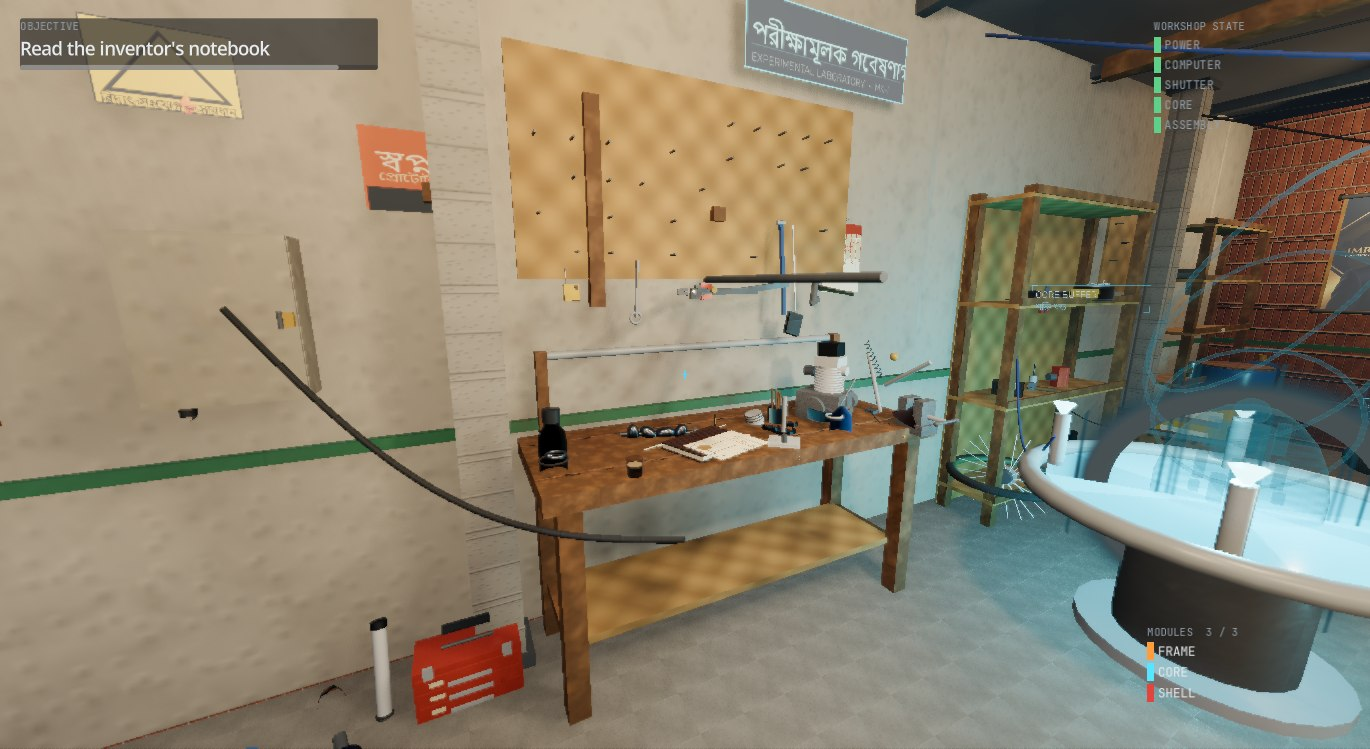
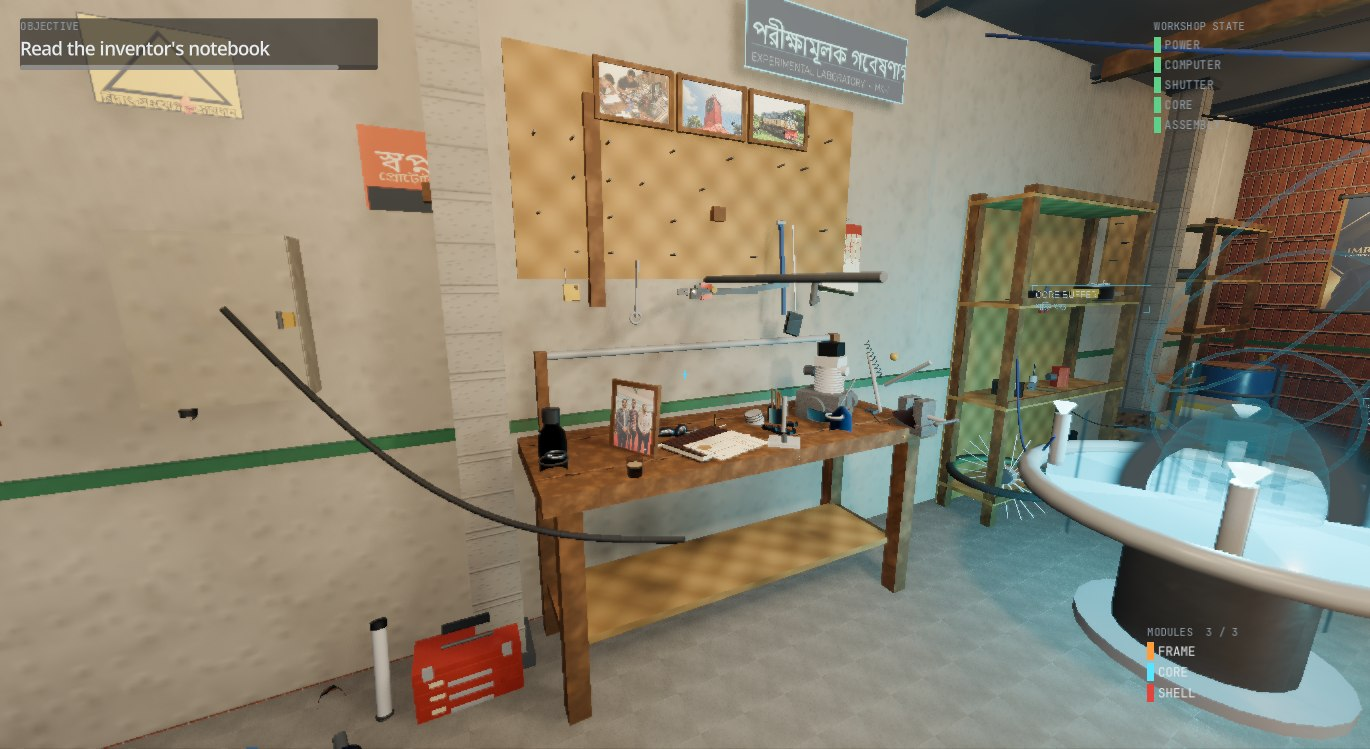
The author's photographs as wall art: a photo row, a team frame, the dream poster, a desk flag
The author supplied six pictures for the garage. Five of them are now in-world art
on the same no-import photography pipeline as the street banner (a new
MaterialLibrary.photo_print(); wall_plaque gained a `photo` option, so they hang in
the project's own teak frames):

- A framed row above the mechanical bench: a Bangladesh Railway locomotive, Ali
  Amjad's clock in Sylhet, and an older batch of students around a half-stripped
  TV — each with its own inspection text.
- The team photo leaning by the notebook on the bench, "never quite straight".
- The exosuit concept print on the north wall between the shop's airline banner
  and the fan ring — the wall the assembly stand faces. First two spots tried sat
  behind the fan ring and the banner and never showed; the dressing now records
  that.
- A desk flag on the electronics bench: the flag_pole prop scaled to 0.46 m,
  sharing the gate flag's baked cloth art. One bake feeds both poles via
  _find_all — and the desk pole is named explicitly, because a second node named
  "FlagPole" gets auto-renamed on the collision and the signage pass had missed
  its cloth (it rendered white until this).

Textures: five images resized to wall-art size (640 px / 768 px, JPEG q85, ~410 KB
total) in assets/textures/user/. The flag webp was skipped: the procedural flag
already matches the official spec. Everything stays fast — no new lights, six
small meshes, six stations.
[…]

diff --git a/docs/SYSTEM_ARCHITECTURE.md b/docs/SYSTEM_ARCHITECTURE.md
@@ -50,7 +50,7 @@ to catch the first.
     ├── Carry                    (Node)     CarrySystem: mouse pick-up / place / rotate / put back
     ├── Garage                   (Node3D)   GarageStructure: floor, walls, columns, roof, shutter frame
     ├── Environment              (Node3D)   GarageEnvironment: WorldEnvironment, 37 lights, dust, rain
-    ├── Dressing                 (Node3D)   GarageDressing: 185 props, 47 stations, cables, signage, decals
+    ├── Dressing                 (Node3D)   GarageDressing: 191 props, 53 stations, cables, signage, decals
     │
     ├── area volumes ×6          (Area3D)   named rooms; group "garage_areas"
     ├── Player                   (CharacterBody3D)
@@ -82,16 +82,16 @@ progress.
 
 | Step | What it does | Measured (UHD 620) |
 |---|---|---|
-| 0 | `MaterialLibrary.ensure_built()`, first surface synthesised | 268 ms for one 256 px surface (262–283 across runs) |
-| 1 | `GarageStructure.build()` — floor, plinths, courtyard, walls, columns, roof, shutter frame, entrance apron, windows | 5 920 ms |
-| 2 | `GarageEnvironment.build()` — sky, WorldEnvironment, 29 lights in 4 circuits, dust, rain (the five always-on bulbs and the sign's RGB rig are registered by the dressing, each light attached to its own prop) | 39 ms |
-| 3 | `GarageDressing.dress()` — 5 areas, 4 procedural layout groups, 2 wall racks, cables, signage, the always-on bulbs, the wall maps, the sign's RGB rig | 4 951 ms |
+| 0 | `MaterialLibrary.ensure_built()`, first surface synthesised | 270 ms for one 256 px surface (262–283 across runs) |
+| 1 | `GarageStructure.build()` — floor, plinths, courtyard, walls, columns, roof, shutter frame, entrance apron, windows | 5 866 ms |
+| 2 | `GarageEnvironment.build()` — sky, WorldEnvironment, 29 lights in 4 circuits, dust, rain (the five always-on bulbs and the sign's RGB rig are registered by the dressing, each light attached to its own prop) | 40 ms |
+| 3 | `GarageDressing.dress()` — 5 areas, 4 procedural layout groups, 2 wall racks, cables, signage, the always-on bulbs, the wall maps, the sign's RGB rig, the photographs | 4 996 ms |
 | 4 | Area volumes | — |
-| 5 | Live `SubViewport`s for 5 screens, attached to their materials | 72 ms |
-| 6 | Player, camera, ray, reticle, collision, capsule sizing | 32 ms |
-| 7 | HUD, all panels, `ObjectiveDirector`, `start()` | 184 ms |
+| 5 | Live `SubViewport`s for 5 screens, attached to their materials | 73 ms |
+| 6 | Player, camera, ray, reticle, collision, capsule sizing | 31 ms |
+| 7 | HUD, all panels, `ObjectiveDirector`, `start()` | 233 ms |
 | 8 | `_apply_restored_state()` — replays a saved run with `instant = true` | — |
-| | **total** | **11 466 ms** |
+| | **total** | **11 509 ms** |
 
 Surfaces are synthesised **lazily**, on first request. Loading every recipe up front would cost
 roughly 9.5 s for all 34 at 256 px; the garage actually touches 34 of them, so the saving is in the
@@ -169,7 +169,7 @@ per texel into colour/roughness/metallic/occlusion/height, pack to RGB8 byte buf
 tangent-space normal by Sobel gradient on the wrapped height field, upload in one
 `Image::create_from_data` per channel. See `docs/GRAPHICS_ALGORITHMS.md` §2.
 
-**`shape_kit.gd`** — the primitive composition layer, and the reason 191 props is affordable. Two
+**`shape_kit.gd`** — the primitive composition layer, and the reason 197 props is affordable. Two
 ideas: a mesh cache keyed on dimensions so forty spanners share one mesh, and true generators (lathe
 from a profile, gear from tooth count and module, tube sweep, coil, chain, plate) for the shapes that
 are not primitives. Also `shape_aabb_local()`, `area_aabb()` and `node_bounds()`, which exist because
@@ -350,7 +350,7 @@ and in the capture harness. The rain, the dust and the footsteps use separate se
 one does not perturb another.
 
 **Fixed capture viewpoints.** The capture harness drives the progression to a known state and parks
-the camera at seventeen declared transforms, which is what makes the screenshots in `captures/`
+the camera at eighteen declared transforms, which is what makes the screenshots in `captures/`
 comparable between code revisions. It also reports a luminance histogram per shot: the check that
 matters most is the `black` percentage, because a lighting rig that renders almost nothing still
 produces a screenshot and would otherwise read as success.
@@ -375,7 +375,7 @@ so that `tests/validate_scripts.gd` can run in an environment with no GPU.
 | `tests/walk_in.gd` | Builds the world headless, takes control of the real player and drives it from the spawn into the shop, back out and sideways across the courtyard, printing position, floor contact, stalls and — when stalled — the exact collider being slid against. This is what proved the entrance lip unclimbable, the courtyard boundless, and the gravity-accumulation pinning on slopes (`docs/EXPERIMENTS.md` §7.6). |
 | Perf harness (`perf.flag`) | Drives the full progression, then samples three fixed viewpoints twice each — shipped settings and the earlier values flipped back at runtime in the same session — and writes a paired A/B table to `user://captures/perf.log`. Its first run is what exposed the shadow-budget bug and the session's 7.5 Hz presentation cap (`docs/EXPERIMENTS.md` §7.5). |
 | `tests/bake_preview.gd` | Renders the lab-wall plate specs (scientists, header, inventions board) and the wall maps (Bangladesh, Sylhet) to PNGs in `user://captures/`, so Bengali on a wall can be proof-read at full resolution without launching the garage. |
-| Capture harness | Boots the real renderer, drives the full progression, writes 17 PNGs plus luminance histograms and a build report. Catches the class of failure that compiles cleanly and renders nothing. |
+| Capture harness | Boots the real renderer, drives the full progression, writes 18 PNGs plus luminance histograms and a build report. Catches the class of failure that compiles cleanly and renders nothing. |
 | Graphics bench | Self-measurement at runtime, exportable to CSV, with a fixed-camera capture at each configuration. |
 
 What is **not** tested: there is no unit test suite, no automated interaction test that drives `E`

diff --git a/docs/EXPERIMENTS.md b/docs/EXPERIMENTS.md
@@ -39,7 +39,7 @@ transfer.
   `CableGenerator.last_stats`, `GarageDressing.layout_stats()`.
 
 **Reproducibility controls.** Fixed seed 1337 for prop generation; a per-group seed for each
-procedural layout; per-surface seeds derived by hash; seventeen fixed camera transforms; 30 frames of
+procedural layout; per-surface seeds derived by hash; eighteen fixed camera transforms; 30 frames of
 warm-up discarded before every measurement.
 
 **Known weakness.** Godot 4.7 exposes no GPU timestamp query. All per-pass costs below are
@@ -378,30 +378,30 @@ performance work.
 
 | Step | Time | Share | What dominates |
 |---|---|---|---|
-| Surface synthesis (first surface) | 268 ms | 2.3% | the per-texel loop |
-| Structure — floor, walls, columns, roof, shutter, entrance apron, windows | 5 920 ms | 51.6% | mesh generation, collision shapes, and the surfaces it requests |
-| Environment — sky, `WorldEnvironment`, 29 lights, dust, rain | 39 ms | 0.3% | negligible |
-| Dressing — 185 placements, 47 stations, 4 layout groups, cables, signage, grime decals, wall plaques, flag, coin, always-on bulbs, wall maps, the sign's RGB rig | 4 951 ms | 43.2% | prop construction, station wiring, and its surfaces |
-| Screens — 5 live `SubViewport`s and their materials | 72 ms | 0.6% | — |
-| Player — camera, ray, reticle, collision | 32 ms | 0.3% | — |
-| Interface — HUD, 10 panels, objective director | 184 ms | 1.6% | — |
-| **Total** | **11 466 ms** | **100%** | |
+| Surface synthesis (first surface) | 270 ms | 2.3% | the per-texel loop |
+| Structure — floor, walls, columns, roof, shutter, entrance apron, windows | 5 866 ms | 51.0% | mesh generation, collision shapes, and the surfaces it requests |
+| Environment — sky, `WorldEnvironment`, 29 lights, dust, rain | 40 ms | 0.3% | negligible |
+| Dressing — 191 placements, 53 stations, 4 layout groups, cables, signage, grime decals, wall plaques, flag, coin, always-on bulbs, wall maps, the sign's RGB rig, photographs | 4 996 ms | 43.4% | prop construction, station wiring, and its surfaces |
+| Screens — 5 live `SubViewport`s and their materials | 73 ms | 0.6% | — |
+| Player — camera, ray, reticle, collision | 31 ms | 0.3% | — |
+| Interface — HUD, 10 panels, objective director | 233 ms | 2.0% | — |
+| **Total** | **11 509 ms** | **100%** | |
 
 **Dressing breakdown, `GarageDressing.dressing_breakdown()`**
 
 | | |
 |---|---|
-| Props placed by the dressing pass | 185 |
-| Props built in total (includes module payloads and suit parts) | 191 |
+| Props placed by the dressing pass | 191 |
+| Props built in total (includes module payloads and suit parts) | 197 |
 | Distinct prop kinds | 134 |
-| Authored placements | 153 |
+| Authored placements | 159 |
 | Procedural placements | 22 (4 groups: 6 + 5 + 6 + 5) |
 | Wall-rack placements | 10 |
-| Mesh cache hits / misses | 1 783 / 1 131 |
+| Mesh cache hits / misses | 1 805 / 1 140 |
 | Rejection-sampler efficiency | 46% of attempts produce a placement |
 
 The counts above are from the shipped build. The per-step times are from the latest capture run;
-the same garage measured 11 015 ms, 11 101 ms and 12 473 ms across the day's earlier runs, so treat
+the same garage measured 11 466 ms, 11 015 ms and 12 473 ms across the day's earlier runs, so treat
 absolute milliseconds as load-dependent — they drift by about 20% when something else is using the
 laptop — and the shares as the finding. This is worth stating rather than pretending the machine is a
 benchmark rig.
@@ -413,8 +413,8 @@ left is moving that per-texel loop to a compute shader, not reducing geometry. T
 13 × 16.5 m room measured 71%; the share rose when the room shrank, because the texture cost is per
 *surface*, not per cubic metre.
 
-**Finding 7.2 — mesh caching is what makes 191 props affordable.** 1 131 distinct meshes serve 185
-placed props through 1 783 hits. Without the cache every spanner, capacitor and bolt would allocate
+**Finding 7.2 — mesh caching is what makes 197 props affordable.** 1 140 distinct meshes serve 191
+placed props through 1 805 hits. Without the cache every spanner, capacitor and bolt would allocate
 its own `BoxMesh`; with it, forty spanners share one. This is also why the frame time is as low as it
 is — shared meshes are candidates for batching in a way that per-instance geometry is not.
 
@@ -557,7 +557,7 @@ mathematically on the ground — and only the joint reading of numbers and pixel
 11. The per-texel composition loop is the surface-synthesis bottleneck, not the noise generation;
     moving from 512 px to 256 px halved the load time with no visible loss because tiling hides the
     missing resolution. (§1.1)
-12. Mesh caching at 1.6:1 reuse is what makes 191 props affordable. (§7.2)
+12. Mesh caching at 1.6:1 reuse is what makes 197 props affordable. (§7.2)
 13. Two-thirds of the total build is structure and dressing geometry. (§7.4)
 14. A state the build writes itself cannot be used to audit the build: the restore replay read
     `GameState` back and re-applied the still-running build's own writes, killing the new auto-open on

diff --git a/docs/PROJECT_OVERVIEW.md b/docs/PROJECT_OVERVIEW.md
@@ -137,7 +137,7 @@ recorded in `docs/ASSET_LICENSES.md`.
 |---|---|
 | First-person controller | WASD, mouse look, sprint, crouch-walk, gravity, jump, distance-driven head bob, material-aware footsteps |
 | Interaction | Raycast focus with a bounding-box reticle, contextual prompts, E to operate, F to inspect |
-| Interactable stations | 47 registered, across 20 behaviour kinds |
+| Interactable stations | 53 registered, across 20 behaviour kinds |
 | Power | 4 circuits, sequential energisation, tube strike simulation, live circuit isolation from the MCB row |
 | Workstation | 6-section `Control`-built interface reading live simulation state, with a POST → login → ready boot |
 | In-world screens | 5 screen meshes, 5 live `SubViewport`s, temperature-graded CRT and LCD glass shader |
@@ -151,6 +151,7 @@ recorded in `docs/ASSET_LICENSES.md`.
 | National corner | The national flag on a courtyard pole — the official construction (2:3, disc at 9/20 length, radius L/5) with a cloth shader that waves it — and a big brass ৫ টাকা display coin leaning on its plinth; both are inspectable, neither is real currency |
 | Wall maps | Two hand-drawn sketch maps hung on the entrance walls: the country right of the gate, the Sylhet division beside the door — outline, rivers, towns and district lines drawn through the same sign baker as every other sign, with `F` text honest that they are line sketches, not survey data |
 | Shop signboard | Hand-painted tin over the gate, now framed in a chasing **RGB LED strip** (its own shader) with two colour-cycling washes — all on the incoming line, so the board stays bright and the street gets its neon whatever the switchboard does |
+| Keepsakes | The author's own photographs as wall art: a framed row above the mechanical bench (a Bangladesh Railway locomotive, Ali Amjad's clock, a lab batch around a CRT), the team photo leaning by the notebook, the exosuit concept poster on the wall the stand faces, and a desk flag — loaded through the same no-import `photo_print()` path as the street banner |
 | Auto-opening gate | The shutter's presence sensor rolls the curtain up as anyone approaches the courtyard — it starts most of the way down and the room wakes up as it lifts. It can no longer be lowered |
 | Always-on bulbs | Five bare bulbs — walk lane, both benches, the testing corner, the store — are wired ahead of the switchboard to the incoming line, outside every switchable circuit: the room is never dark, even at the start, and each bulb carries its own light when you pick it up |
 | Entrance | A concrete apron ramps the doorway down to the packed earth so the shop can be walked into and out of without breaking stride, and the courtyard is walled in — walking past the street wall or the neighbour walls stops you instead of dropping you out of the world |
@@ -199,7 +200,7 @@ assembly sequence. That is the localisation requirement, implemented as configur
 
 On Intel UHD 620 at 1600×900, Forward+:
 
-- Garage build: **11.5 s** in the latest capture run (5.9 s structure, 5.0 s dressing for 185
+- Garage build: **11.5 s** in the latest capture run (5.9 s structure, 5.0 s dressing for 191
   placements; the same build has measured 11.0–12.5 s across earlier runs — machine load moves it;
   most of the total is surface synthesis, spread across both steps)
 - Medium preset: 40–55 fps measured before the preset retune — SDFGI and volumetric fog off, SSR on,

diff --git a/README.md b/README.md
@@ -36,7 +36,7 @@ is running on.
 ### The garage, in pictures
 
 All frames below are real-time captures taken by the project's own verification harness — the
-seventeen-viewpoint camera set documented in `docs/EXPERIMENTS.md`, driven through the full
+eighteen-viewpoint camera set documented in `docs/EXPERIMENTS.md`, driven through the full
 progression and written with luminance histograms so the build can be checked frame by frame.
 
 |  |  |
@@ -51,6 +51,8 @@ progression and written with luminance histograms so the build can be checked fr
 | The walk lane under an always-on bulb, gate coils at top | The national corner: flag and display coin |
 | <img src="screenshots/12_lab_wall.jpg" width="420"> | <img src="screenshots/15_country_map.jpg" width="420"> |
 | The scientists' corner — six honour plaques and the inventions board | A hand-drawn wall map of Bangladesh, right of the gate |
+| <img src="screenshots/17_photo_wall.jpg" width="420"> | <img src="screenshots/02_entrance.jpg" width="420"> |
+| The owner's photographs above the mechanical bench | Walking in: the gate, the maps, the lit shop |
 
 ---
 
@@ -84,7 +86,7 @@ global-illumination features; the Settings panel switches it live.
 ### Capture / verification mode
 
 Dropping an empty file named `capture.flag` next to `project.godot` puts the world into verification
-mode: it drives the whole twelve-step progression, then parks the camera at seventeen fixed viewpoints
+mode: it drives the whole twelve-step progression, then parks the camera at eighteen fixed viewpoints
 and writes a PNG plus a luminance histogram for each, then quits. The files land in `user://captures/`
 (`%APPDATA%\Godot\app_userdata\Deshi Iron Garage\captures\` on Windows), which is how the screenshots
 quoted in `docs/EXPERIMENTS.md` were produced. It is not a shipped feature and has no effect without
@@ -270,11 +272,11 @@ in-world graphics bench. These are the numbers the application reports about its
 |---|---|
 | Full garage build | ≈ 11–12 s (11.5 s in the latest capture run; it moves with machine load) |
 | Surface synthesis, first 256 px surface | ≈ 280 ms |
-| Props placed | 185 (191 built, 134 kinds) |
-| Interactive stations | 47 |
+| Props placed | 191 (197 built, 134 kinds) |
+| Interactive stations | 53 |
 | Registered lights | 37 (of which shadow casters: 7) |
 | Live screen SubViewports | 5 |
-| Mesh cache | 1783 hits, 1131 misses |
+| Mesh cache | 1805 hits, 1140 misses |
 | CPU loop, headless (script side, no GPU work) | 7.9 ms per frame (127 fps) |
 | Adaptive resolution | on by default: render scale 0.55–0.85, ±0.05 per second, holding worst-case frames under 24 ms |
 | Frame rate | interactive only: the automated capture session's window presentation is capped at 7.5 Hz regardless of load (see `docs/EXPERIMENTS.md` §7.5), so frame rates are read from the in-app bench (F6). The retune cut 13–27 ms of CPU frame time against the earlier settings |

diff --git a/docs/RESEARCH_METHODOLOGY.md b/docs/RESEARCH_METHODOLOGY.md
@@ -100,7 +100,7 @@ of the surface key plus a fixed base, so a surface is byte-identical across runs
 at the same resolution. Rain, dust and footstep variation use separate seeds so changing one cannot
 perturb another.
 
-**Fixed camera positions.** Seventeen declared transforms, used by both the capture harness and the
+**Fixed camera positions.** Eighteen declared transforms, used by both the capture harness and the
 graphics bench. This is what makes two screenshots comparable between code revisions.
 
 **Fixed warm-up.** Every measurement run discards 30 frames before sampling and then takes three
@@ -212,7 +212,7 @@ The traceability is explicit:
 | Bundling saves draw calls | `CableGenerator.generate_bundle()` — one `SurfaceTool`, one `commit()` |
 | Seven shadow casters of 37 lights | `GarageEnvironment` and the dressing register 37; the bench reports the caster count |
 | Shutter drives the daylight | `GarageEnvironment.set_shutter_influence()`, called from `GarageWorld._process()` |
-| 191 props built, 134 kinds | `GarageWorld.build_report()` |
+| 197 props built, 134 kinds | `GarageWorld.build_report()` |
 | Screen content reads the simulation | `ScreenContent._snapshot()`, called by every screen and every panel |
 | The A/B performance harness | `GarageWorld._perf_process()` (`perf.flag`), reported in `docs/EXPERIMENTS.md` §7.5 |
 
@@ -254,6 +254,6 @@ change was committed.
 
 **Instrumentation over assertion.** Every time a claim was about to be made, the first attempt was to
 make it measurable. "The build is fast enough" became per-step timings. "The lighting looks good"
-became seventeen fixed shots with luminance histograms. "The cables are efficient" became
+became eighteen fixed shots with luminance histograms. "The cables are efficient" became
 `last_stats` with a triangle count and a draw-call count. Where a thing could not be measured it is
 labelled as a judgement.

diff --git a/docs/ASSET_LICENSES.md b/docs/ASSET_LICENSES.md
@@ -10,7 +10,8 @@ records exactly what came from where, and under what terms.
 
 | Category | Count | Origin | Licence |
 |---|---|---|---|
-| 3D meshes | 1 131 distinct, 185 placed | **Generated at runtime** by `ShapeKit` and the prop catalogues | Original work, same licence as the source |
+| 3D meshes | 1 140 distinct, 191 placed | **Generated at runtime** by `ShapeKit` and the prop catalogues | Original work, same licence as the source |
+| Photographs (5) | Wall art from `assets/textures/user/` | **Supplied by the author** for in-world frames | Loaded with `Image.load_from_file()`, no import side files; the locomotive and clock images are also published on Wikimedia Commons — pin their exact licences before wider redistribution |
 | Texture images | 34 surface sets × 3 channels = 102 images | **Synthesised at runtime** by `TextureFactory` | Original work |
 | Supplied photograph | 1 image (127 KB) | **Provided by the project's author** — the workshop banner hung on the north wall | Author's own work, used with the author's permission |
 | Audio | 22 clips | **Synthesised at runtime** by `AudioSynth` | Original work |
@@ -32,8 +33,8 @@ catalogues.
 Two mechanisms are used:
 
 **Engine primitives, parameterised.** Godot's `BoxMesh`, `CylinderMesh`, `SphereMesh`, `TorusMesh`,
-`PlaneMesh` and `CapsuleMesh` are configured per prop and cached by dimensions. 1 131 distinct
-configured meshes serve 185 placed props through 1 783 cache hits in the shipped room.
+`PlaneMesh` and `CapsuleMesh` are configured per prop and cached by dimensions. 1 140 distinct
+configured meshes serve 191 placed props through 1 805 cache hits in the shipped room.
 
 **Geometry generated from parameters.** Where a primitive is insufficient, the mesh is built with
 `SurfaceTool` or `ArrayMesh` from parameters:

diff --git a/docs/USER_MANUAL.md b/docs/USER_MANUAL.md
@@ -261,6 +261,12 @@ the conjuncts form correctly.
 with construction lines and dimensions, the parts list, a page of design constraints written in the
 inventor's voice, and a short letter. The sketch's dimensions are the ones the stand actually uses.
 
+**The photographs.** The garage keeps the owner's pictures where a working shop keeps them: a framed
+row above the mechanical bench — a Bangladesh Railway locomotive, Ali Amjad's clock in Sylhet, and an
+older batch of students around a half-stripped television — the team photo leaning by the notebook,
+the exosuit concept poster on the wall the assembly stand faces, and a desk flag on the electronics
+bench. `F` on any of them for the story.
+
 ---
 
 ## 7. The graphics bench (`F6`)

diff --git a/docs/GRAPHICS_ALGORITHMS.md b/docs/GRAPHICS_ALGORITHMS.md
@@ -514,8 +514,8 @@ that darkens distant sources.
 
 ### 8.1 Mesh caching
 
-`ShapeKit` keys every primitive on its dimensions and reuses the mesh. The garage builds 191 props
-from **1 131 distinct meshes** with **1 783 cache hits** — a 1.6:1 reuse ratio, which is the difference
+`ShapeKit` keys every primitive on its dimensions and reuses the mesh. The garage builds 197 props
+from **1 140 distinct meshes** with **1 805 cache hits** — a 1.6:1 reuse ratio, which is the difference
 between a scene that runs on integrated graphics and one that does not.
 
 ### 8.2 Generators rather than primitives
